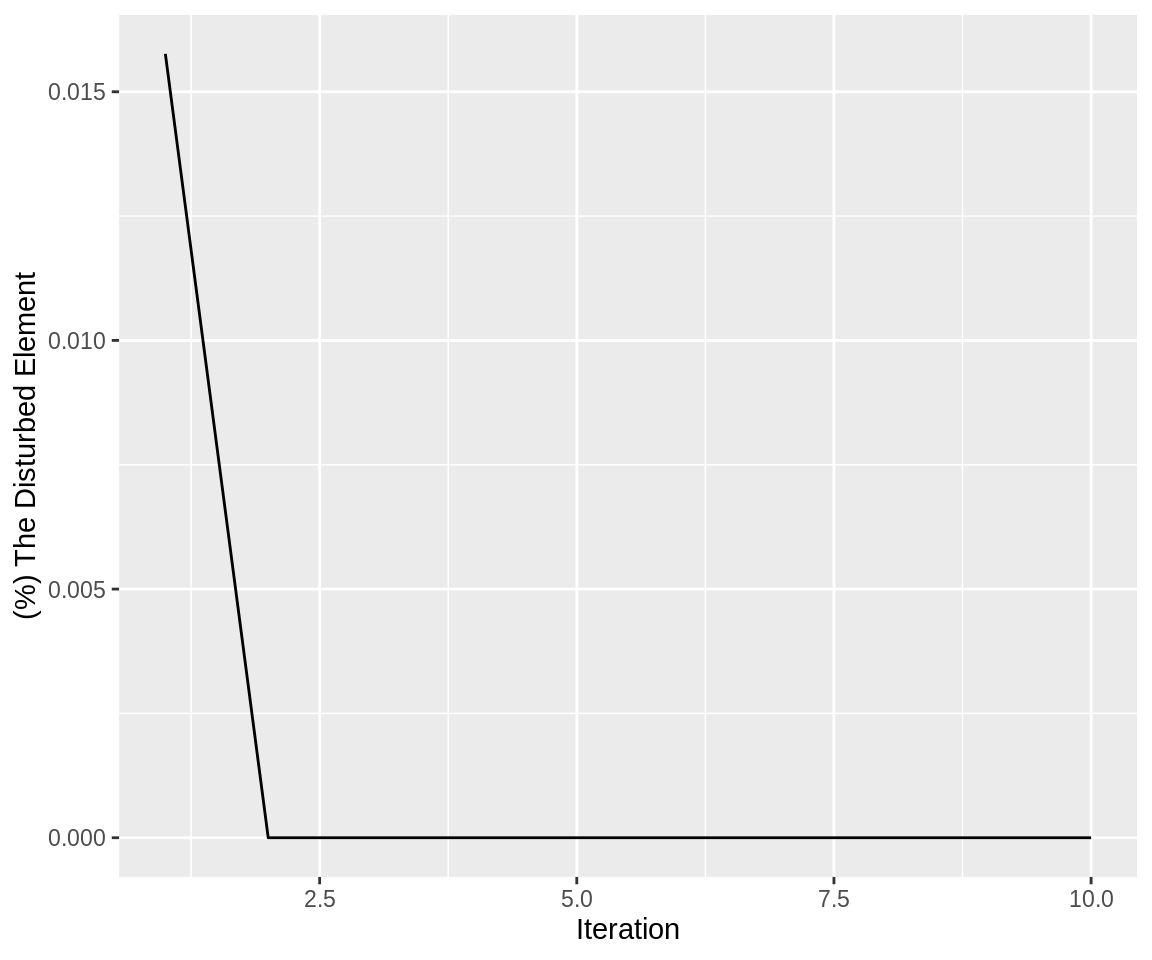
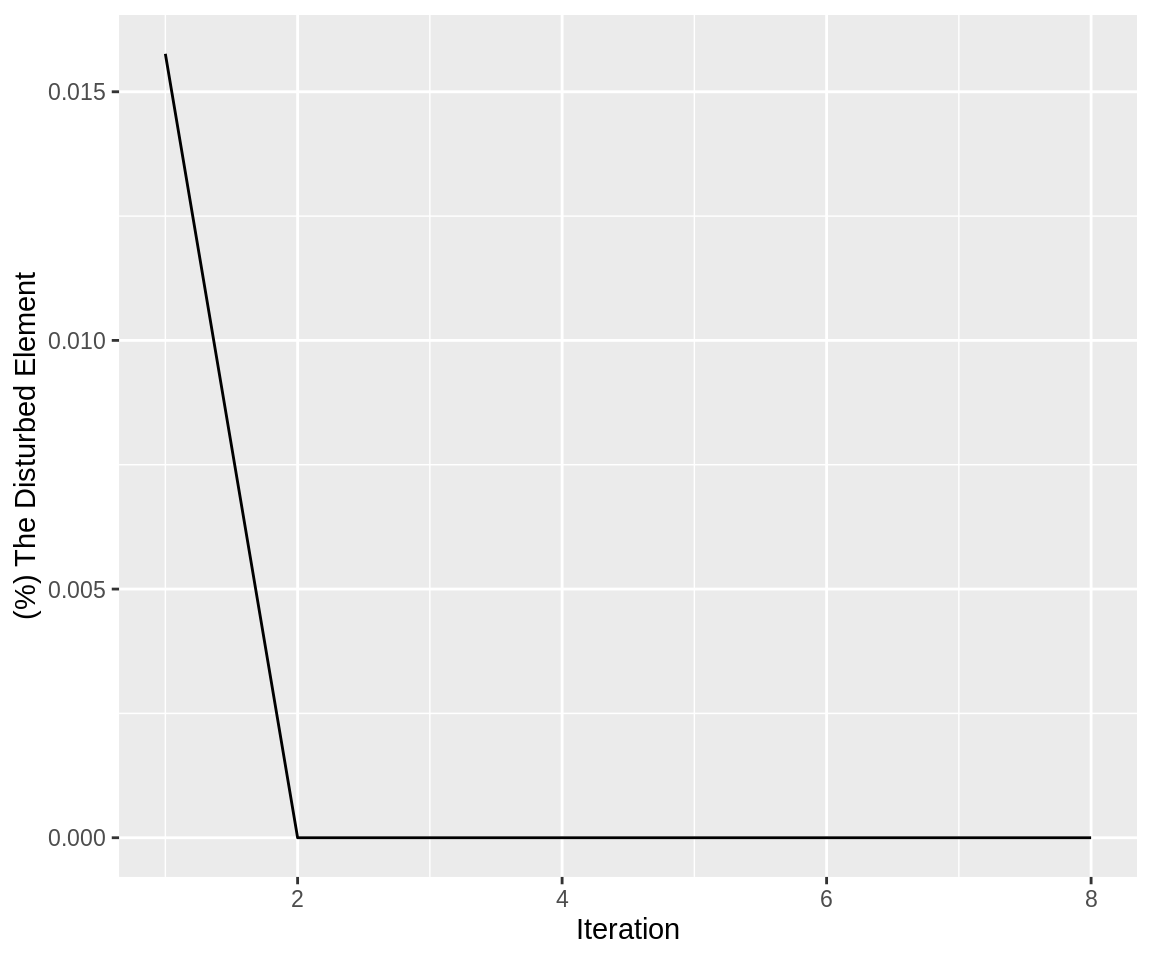
Built site for ceRNAnetsim: 0.99.22@4ae1e24

diff --git a/articles/mirtarbase_example.html b/articles/mirtarbase_example.html
@@ -39,7 +39,7 @@
       </button>
       <span class="navbar-brand">
         <a class="navbar-link" href="../index.html">ceRNAnetsim</a>
-        <span class="version label label-default" data-toggle="tooltip" data-placement="bottom" title="Released version">0.99.21</span>
+        <span class="version label label-default" data-toggle="tooltip" data-placement="bottom" title="Released version">0.99.22</span>
       </span>
     </div>
 
@@ -291,7 +291,7 @@
 <a class="sourceLine" id="cb12-3" data-line-number="3"><span class="st">  </span><span class="kw"><a href="../reference/priming_graph.html">priming_graph</a></span>(<span class="dt">competing_count =</span> gene_expression, </a>
 <a class="sourceLine" id="cb12-4" data-line-number="4">                <span class="dt">miRNA_count =</span> total_read) <span class="op">%&gt;%</span><span class="st"> </span></a>
 <a class="sourceLine" id="cb12-5" data-line-number="5"><span class="st">  </span><span class="kw"><a href="../reference/update_how.html">update_how</a></span>(<span class="dt">node_name =</span> <span class="st">"HIST1H3H"</span>, <span class="dt">how =</span><span class="dv">30</span>) <span class="op">%&gt;%</span><span class="st"> </span></a>
-<a class="sourceLine" id="cb12-6" data-line-number="6"><span class="st">  </span><span class="kw"><a href="../reference/simulate.html">simulate</a></span>(<span class="dv">10</span>) -&gt;simulation_res_HIST</a>
+<a class="sourceLine" id="cb12-6" data-line-number="6"><span class="st">  </span><span class="kw"><a href="../reference/simulate.html">simulate</a></span>(<span class="dv">8</span>) -&gt;simulation_res_HIST</a>
 <a class="sourceLine" id="cb12-7" data-line-number="7"></a>
 <a class="sourceLine" id="cb12-8" data-line-number="8">simulation_res_HIST<span class="op">%&gt;%</span></a>
 <a class="sourceLine" id="cb12-9" data-line-number="9"><span class="st">  </span><span class="kw"><a href="../reference/find_iteration.html">find_iteration</a></span>(<span class="dt">plot=</span><span class="ot">TRUE</span>)</a></code></pre></div>
@@ -321,7 +321,7 @@
 <a class="sourceLine" id="cb14-2" data-line-number="2"><span class="st">  </span><span class="kw"><a href="../reference/priming_graph.html">priming_graph</a></span>(<span class="dt">competing_count =</span> gene_expression, </a>
 <a class="sourceLine" id="cb14-3" data-line-number="3">                <span class="dt">miRNA_count =</span> total_read) <span class="op">%&gt;%</span><span class="st"> </span></a>
 <a class="sourceLine" id="cb14-4" data-line-number="4"><span class="st">  </span><span class="kw"><a href="../reference/update_how.html">update_how</a></span>(<span class="dt">node_name =</span> <span class="st">"ACTB"</span>, <span class="dt">how =</span><span class="fl">1.87</span>) <span class="op">%&gt;%</span><span class="st"> </span></a>
-<a class="sourceLine" id="cb14-5" data-line-number="5"><span class="st">  </span><span class="kw"><a href="../reference/simulate.html">simulate</a></span>(<span class="dv">10</span>)</a>
+<a class="sourceLine" id="cb14-5" data-line-number="5"><span class="st">  </span><span class="kw"><a href="../reference/simulate.html">simulate</a></span>(<span class="dv">8</span>)</a>
 <a class="sourceLine" id="cb14-6" data-line-number="6"></a>
 <a class="sourceLine" id="cb14-7" data-line-number="7">simulation_res_ACTB<span class="op">%&gt;%</span></a>
 <a class="sourceLine" id="cb14-8" data-line-number="8"><span class="st">  </span><span class="kw"><a href="../reference/find_iteration.html">find_iteration</a></span>(<span class="dt">plot=</span><span class="ot">TRUE</span>)</a></code></pre></div>
@@ -514,7 +514,7 @@
 <a class="sourceLine" id="cb22-19" data-line-number="19"><span class="co">#&gt; [1] stats     graphics  grDevices utils     datasets  methods   base     </span></a>
 <a class="sourceLine" id="cb22-20" data-line-number="20"><span class="co">#&gt; </span></a>
 <a class="sourceLine" id="cb22-21" data-line-number="21"><span class="co">#&gt; other attached packages:</span></a>
-<a class="sourceLine" id="cb22-22" data-line-number="22"><span class="co">#&gt; [1] ceRNAnetsim_0.99.21 tidygraph_1.1.2     dplyr_0.8.3        </span></a>
+<a class="sourceLine" id="cb22-22" data-line-number="22"><span class="co">#&gt; [1] ceRNAnetsim_0.99.22 tidygraph_1.1.2     dplyr_0.8.3        </span></a>
 <a class="sourceLine" id="cb22-23" data-line-number="23"><span class="co">#&gt; </span></a>
 <a class="sourceLine" id="cb22-24" data-line-number="24"><span class="co">#&gt; loaded via a namespace (and not attached):</span></a>
 <a class="sourceLine" id="cb22-25" data-line-number="25"><span class="co">#&gt;  [1] tidyselect_0.2.5   xfun_0.11          purrr_0.3.3        listenv_0.7.0     </span></a>

diff --git a/articles/auxiliary_commands.html b/articles/auxiliary_commands.html
@@ -39,7 +39,7 @@
       </button>
       <span class="navbar-brand">
         <a class="navbar-link" href="../index.html">ceRNAnetsim</a>
-        <span class="version label label-default" data-toggle="tooltip" data-placement="bottom" title="Released version">0.99.21</span>
+        <span class="version label label-default" data-toggle="tooltip" data-placement="bottom" title="Released version">0.99.22</span>
       </span>
     </div>
 
@@ -270,7 +270,7 @@
 <a class="sourceLine" id="cb10-19" data-line-number="19"><span class="co">#&gt; [1] stats     graphics  grDevices utils     datasets  methods   base     </span></a>
 <a class="sourceLine" id="cb10-20" data-line-number="20"><span class="co">#&gt; </span></a>
 <a class="sourceLine" id="cb10-21" data-line-number="21"><span class="co">#&gt; other attached packages:</span></a>
-<a class="sourceLine" id="cb10-22" data-line-number="22"><span class="co">#&gt; [1] ceRNAnetsim_0.99.21 tidygraph_1.1.2     dplyr_0.8.3        </span></a>
+<a class="sourceLine" id="cb10-22" data-line-number="22"><span class="co">#&gt; [1] ceRNAnetsim_0.99.22 tidygraph_1.1.2     dplyr_0.8.3        </span></a>
 <a class="sourceLine" id="cb10-23" data-line-number="23"><span class="co">#&gt; </span></a>
 <a class="sourceLine" id="cb10-24" data-line-number="24"><span class="co">#&gt; loaded via a namespace (and not attached):</span></a>
 <a class="sourceLine" id="cb10-25" data-line-number="25"><span class="co">#&gt;  [1] tidyselect_0.2.5   xfun_0.11          purrr_0.3.3        listenv_0.7.0     </span></a>

diff --git a/articles/basic_usage.html b/articles/basic_usage.html
@@ -39,7 +39,7 @@
       </button>
       <span class="navbar-brand">
         <a class="navbar-link" href="../index.html">ceRNAnetsim</a>
-        <span class="version label label-default" data-toggle="tooltip" data-placement="bottom" title="Released version">0.99.21</span>
+        <span class="version label label-default" data-toggle="tooltip" data-placement="bottom" title="Released version">0.99.22</span>
       </span>
     </div>
 
@@ -748,7 +748,7 @@
 <a class="sourceLine" id="cb29-19" data-line-number="19"><span class="co">#&gt; [1] stats     graphics  grDevices utils     datasets  methods   base     </span></a>
 <a class="sourceLine" id="cb29-20" data-line-number="20"><span class="co">#&gt; </span></a>
 <a class="sourceLine" id="cb29-21" data-line-number="21"><span class="co">#&gt; other attached packages:</span></a>
-<a class="sourceLine" id="cb29-22" data-line-number="22"><span class="co">#&gt; [1] ceRNAnetsim_0.99.21 tidygraph_1.1.2     dplyr_0.8.3        </span></a>
+<a class="sourceLine" id="cb29-22" data-line-number="22"><span class="co">#&gt; [1] ceRNAnetsim_0.99.22 tidygraph_1.1.2     dplyr_0.8.3        </span></a>
 <a class="sourceLine" id="cb29-23" data-line-number="23"><span class="co">#&gt; </span></a>
 <a class="sourceLine" id="cb29-24" data-line-number="24"><span class="co">#&gt; loaded via a namespace (and not attached):</span></a>
 <a class="sourceLine" id="cb29-25" data-line-number="25"><span class="co">#&gt;  [1] tidyselect_0.2.5   xfun_0.11          purrr_0.3.3        listenv_0.7.0     </span></a>

diff --git a/articles/convenient_iteration.html b/articles/convenient_iteration.html
@@ -39,7 +39,7 @@
       </button>
       <span class="navbar-brand">
         <a class="navbar-link" href="../index.html">ceRNAnetsim</a>
-        <span class="version label label-default" data-toggle="tooltip" data-placement="bottom" title="Released version">0.99.21</span>
+        <span class="version label label-default" data-toggle="tooltip" data-placement="bottom" title="Released version">0.99.22</span>
       </span>
     </div>
 
@@ -519,7 +519,7 @@
 <a class="sourceLine" id="cb16-19" data-line-number="19"><span class="co">#&gt; [1] stats     graphics  grDevices utils     datasets  methods   base     </span></a>
 <a class="sourceLine" id="cb16-20" data-line-number="20"><span class="co">#&gt; </span></a>
 <a class="sourceLine" id="cb16-21" data-line-number="21"><span class="co">#&gt; other attached packages:</span></a>
-<a class="sourceLine" id="cb16-22" data-line-number="22"><span class="co">#&gt; [1] purrr_0.3.3         png_0.1-7           ceRNAnetsim_0.99.21</span></a>
+<a class="sourceLine" id="cb16-22" data-line-number="22"><span class="co">#&gt; [1] purrr_0.3.3         png_0.1-7           ceRNAnetsim_0.99.22</span></a>
 <a class="sourceLine" id="cb16-23" data-line-number="23"><span class="co">#&gt; [4] tidygraph_1.1.2     dplyr_0.8.3        </span></a>
 <a class="sourceLine" id="cb16-24" data-line-number="24"><span class="co">#&gt; </span></a>
 <a class="sourceLine" id="cb16-25" data-line-number="25"><span class="co">#&gt; loaded via a namespace (and not attached):</span></a>

diff --git a/reference/calc_perturbation.html b/reference/calc_perturbation.html
@@ -88,7 +88,7 @@ trigger and finds the perturbed node count for a given node." />
       </button>
       <span class="navbar-brand">
         <a class="navbar-link" href="../index.html">ceRNAnetsim</a>
-        <span class="version label label-default" data-toggle="tooltip" data-placement="bottom" title="Released version">0.99.21</span>
+        <span class="version label label-default" data-toggle="tooltip" data-placement="bottom" title="Released version">0.99.22</span>
       </span>
     </div>
 

diff --git a/reference/normalize.html b/reference/normalize.html
@@ -86,7 +86,7 @@ inside a group. The helper function of priming_graph." />
       </button>
       <span class="navbar-brand">
         <a class="navbar-link" href="../index.html">ceRNAnetsim</a>
-        <span class="version label label-default" data-toggle="tooltip" data-placement="bottom" title="Released version">0.99.21</span>
+        <span class="version label label-default" data-toggle="tooltip" data-placement="bottom" title="Released version">0.99.22</span>
       </span>
     </div>
 

diff --git a/reference/update_nodes.html b/reference/update_nodes.html
@@ -86,7 +86,7 @@ after `update_how` or `update_variables` functions" />
       </button>
       <span class="navbar-brand">
         <a class="navbar-link" href="../index.html">ceRNAnetsim</a>
-        <span class="version label label-default" data-toggle="tooltip" data-placement="bottom" title="Released version">0.99.21</span>
+        <span class="version label label-default" data-toggle="tooltip" data-placement="bottom" title="Released version">0.99.22</span>
       </span>
     </div>
 

diff --git a/reference/priming_graph.html b/reference/priming_graph.html
@@ -100,7 +100,7 @@ the factors are taken into account." />
       </button>
       <span class="navbar-brand">
         <a class="navbar-link" href="../index.html">ceRNAnetsim</a>
-        <span class="version label label-default" data-toggle="tooltip" data-placement="bottom" title="Released version">0.99.21</span>
+        <span class="version label label-default" data-toggle="tooltip" data-placement="bottom" title="Released version">0.99.22</span>
       </span>
     </div>
 

diff --git a/reference/update_variables.html b/reference/update_variables.html
@@ -88,7 +88,7 @@ values of competing or miRNA counts." />
       </button>
       <span class="navbar-brand">
         <a class="navbar-link" href="../index.html">ceRNAnetsim</a>
-        <span class="version label label-default" data-toggle="tooltip" data-placement="bottom" title="Released version">0.99.21</span>
+        <span class="version label label-default" data-toggle="tooltip" data-placement="bottom" title="Released version">0.99.22</span>
       </span>
     </div>
 

diff --git a/reference/find_node_perturbation.html b/reference/find_node_perturbation.html
@@ -91,7 +91,7 @@ all (or specified) nodes in system." />
       </button>
       <span class="navbar-brand">
         <a class="navbar-link" href="../index.html">ceRNAnetsim</a>
-        <span class="version label label-default" data-toggle="tooltip" data-placement="bottom" title="Released version">0.99.21</span>
+        <span class="version label label-default" data-toggle="tooltip" data-placement="bottom" title="Released version">0.99.22</span>
       </span>
     </div>
 

diff --git a/404.html b/404.html
@@ -83,7 +83,7 @@
       </button>
       <span class="navbar-brand">
         <a class="navbar-link" href="https://selcenari.github.io/ceRNAnetsim//index.html">ceRNAnetsim</a>
-        <span class="version label label-default" data-toggle="tooltip" data-placement="bottom" title="Released version">0.99.21</span>
+        <span class="version label label-default" data-toggle="tooltip" data-placement="bottom" title="Released version">0.99.22</span>
       </span>
     </div>
 

diff --git a/articles/index.html b/articles/index.html
@@ -83,7 +83,7 @@
       </button>
       <span class="navbar-brand">
         <a class="navbar-link" href="../index.html">ceRNAnetsim</a>
-        <span class="version label label-default" data-toggle="tooltip" data-placement="bottom" title="Released version">0.99.21</span>
+        <span class="version label label-default" data-toggle="tooltip" data-placement="bottom" title="Released version">0.99.22</span>
       </span>
     </div>
 
